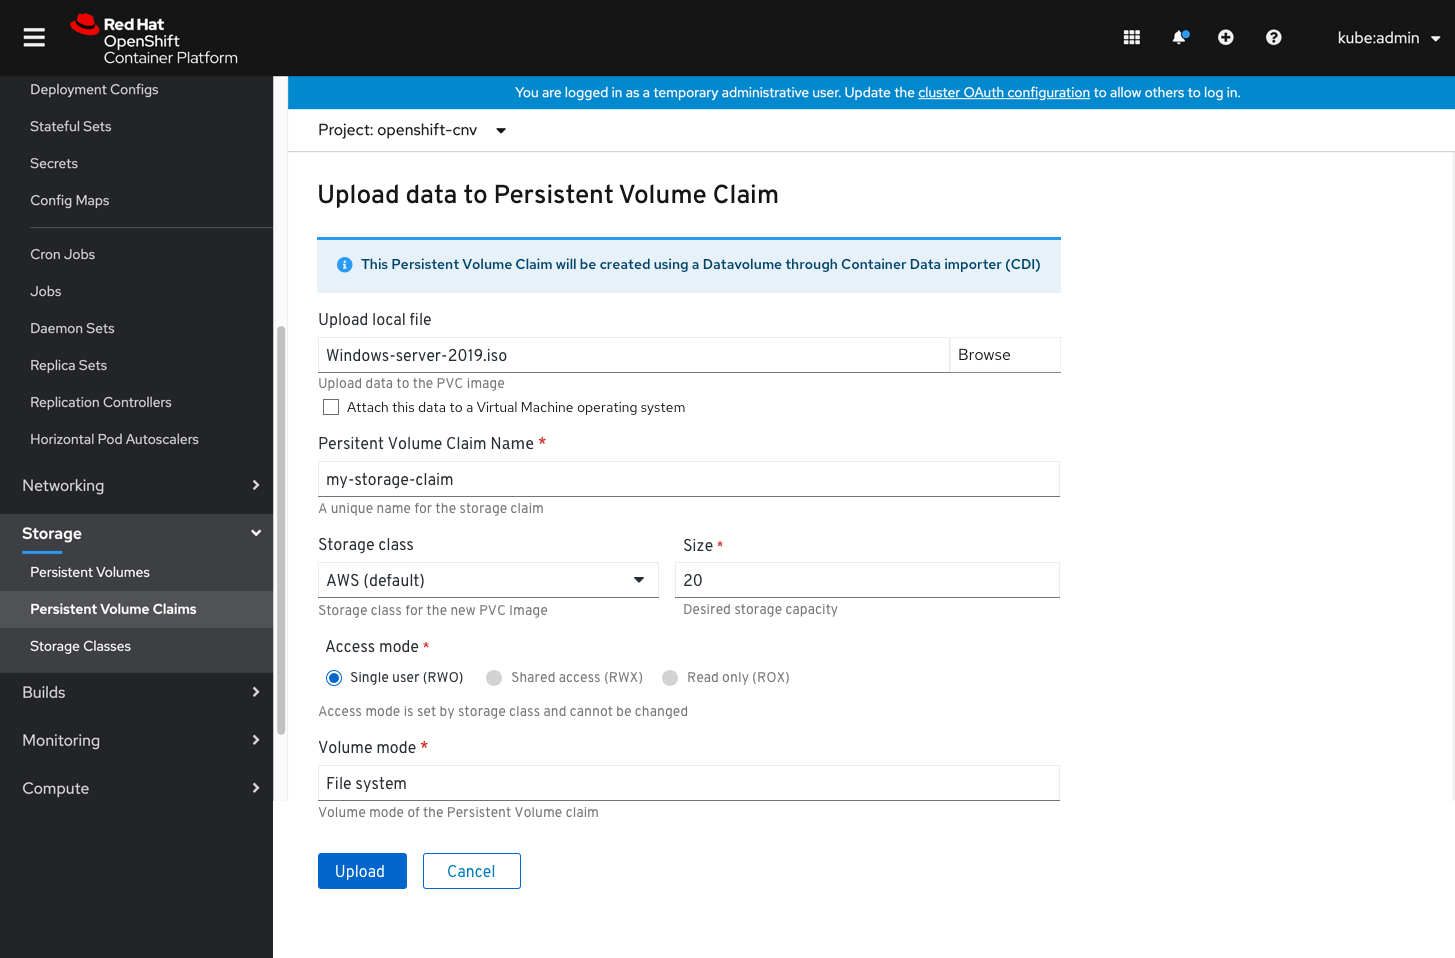
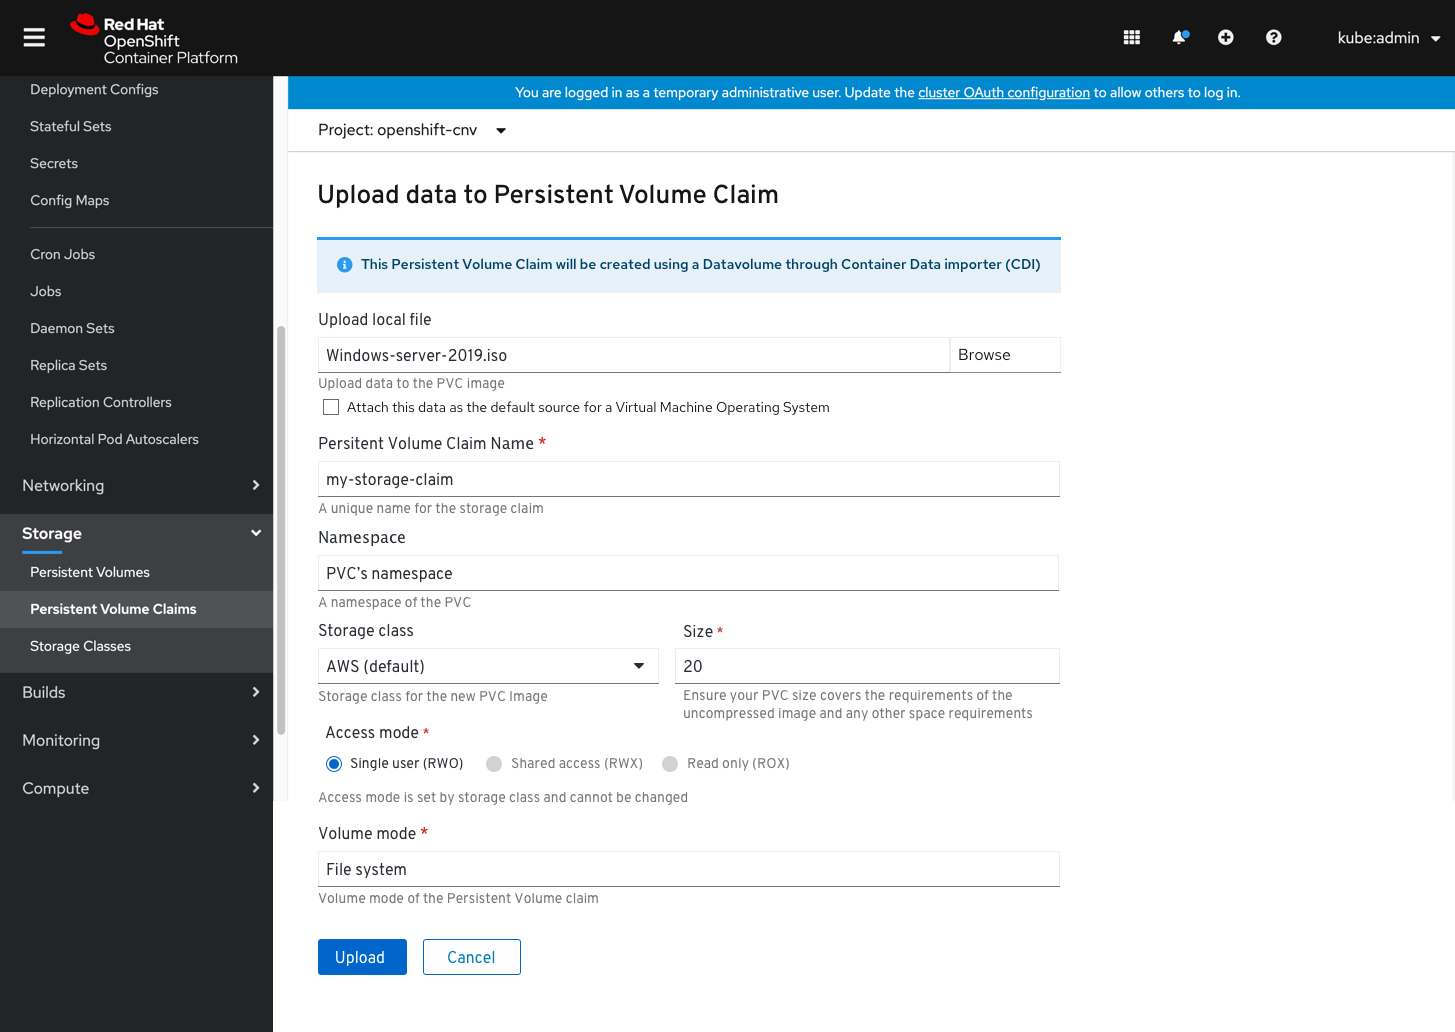
updates in form

diff --git a/designs/virtualization/4.6/Upload-image-prior-to-creating-VM/Upload Image prior to creating vm.md b/designs/virtualization/4.6/Upload-image-prior-to-creating-VM/Upload Image prior to creating vm.md
@@ -20,7 +20,7 @@ The user chooses an image (data source) to upload.
 In order to allow the user to flag an OS for the data they are uploading, they need to select an OS to attach data to. This selection will define the name/namespace of the Persistent Volume Claim.
 If they want it to back an Operaing System they'll check the check box and the Operating System dropdown will be shown.
 Once that happens the name/namespace fields are filled in and become disabled.
-Then the user fills the rest of the PVC details: size, storage class, access mode. Some of the fields can be filled out but editing will be optional as well.
+Then the user fills the rest of the PVC details: size, storage class, access mode, namespace. Some of the fields can be filled out but editing will be optional as well.
 
 ![browse to upload](img/Upload-data-to-pvc-1.png)
 
